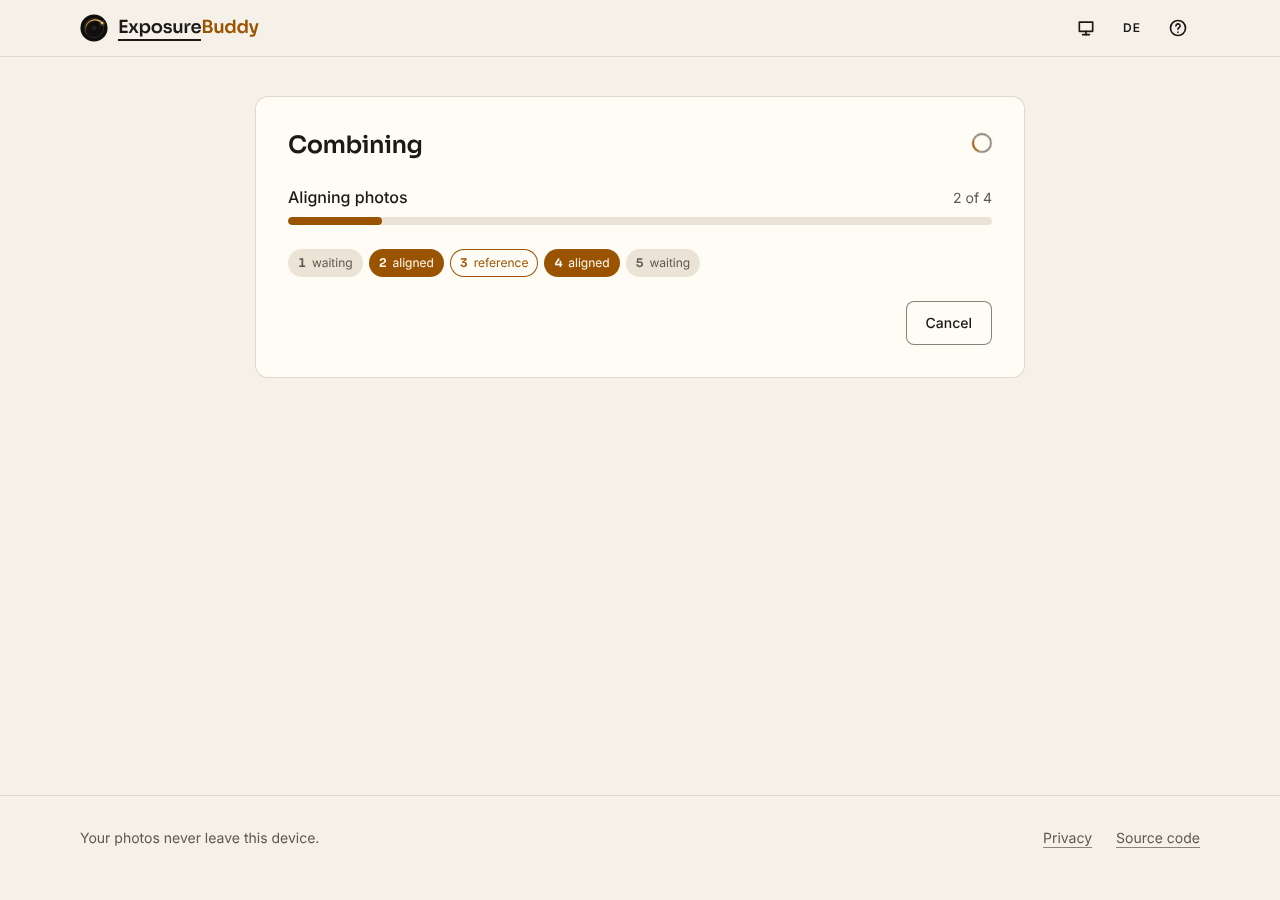
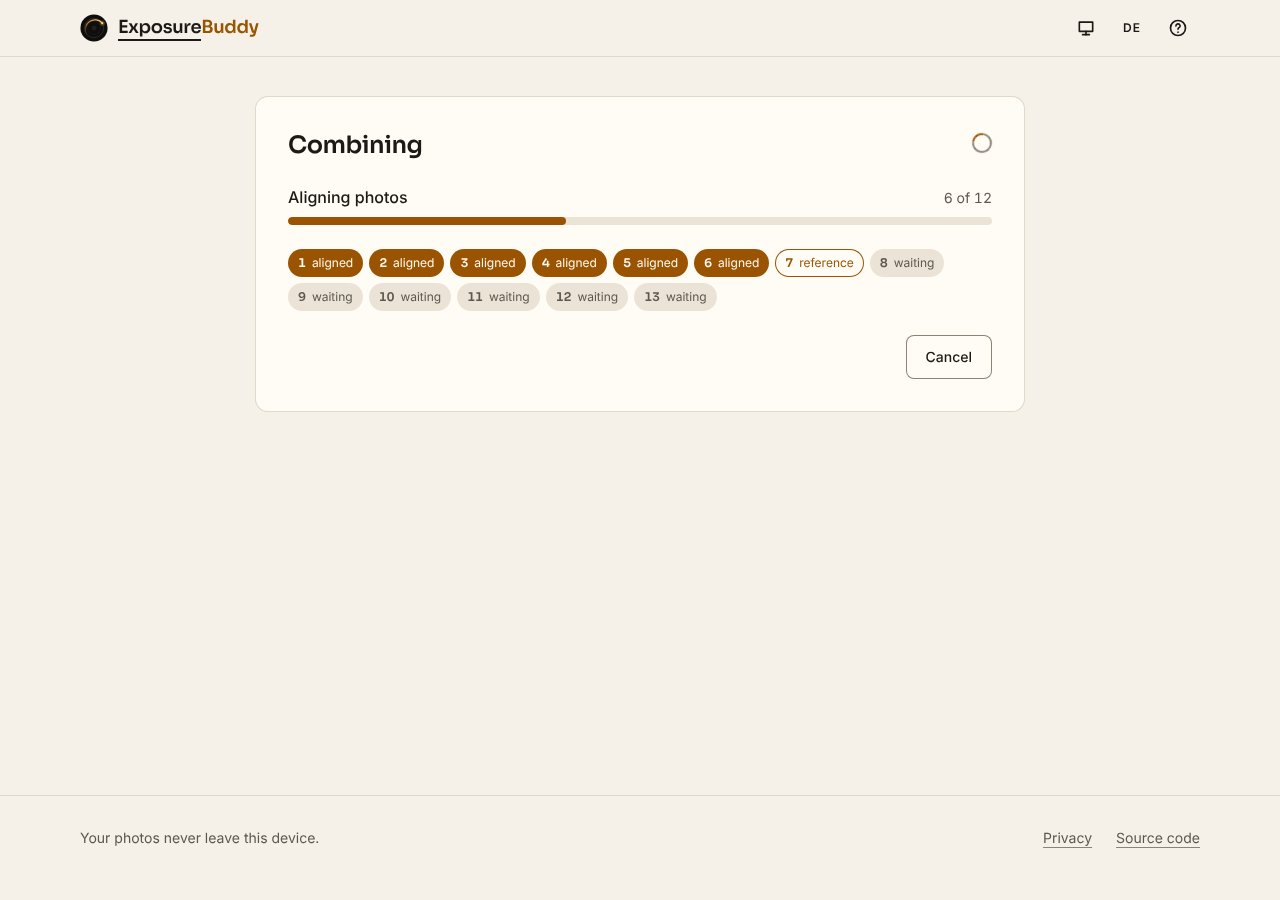
docs: redo README screenshots with the 13-photo burst
Claude-Session: https://claude.ai/code/session_01GGzo6ayEnXtXCSV7sUH3Lk

Changed region(s): [[0.2188, 0.2178, 0.75, 0.3733], [0.7188, 0.3422, 0.7812, 0.4044], [0.75, 0.2178, 0.7812, 0.2489]]

diff --git a/README.md b/README.md
@@ -36,11 +36,11 @@ A long exposure turns a busy street into an empty one with faint ghosts of the p
 
 It runs entirely in the browser. There is no account, no upload and no server: the photos never leave the phone.
 
-![Left: the reference photo of a five-photo burst with skaters in motion. Right: the long exposure, with the arena sharp and the skaters faded to faint ghosts.](docs/assets/before-after.jpg)
+![Left: the reference photo of a 13-photo burst of an ice hockey warm-up. Right: the long exposure, with the arena sharp and the skaters faded to faint ghosts.](docs/assets/before-after.jpg)
 
 | Add the burst                                                                               | Combining                                                                         | Result                                                                                       |
 | ------------------------------------------------------------------------------------------- | --------------------------------------------------------------------------------- | -------------------------------------------------------------------------------------------- |
-| ![The picker with five photo thumbnails and the Combine button.](docs/assets/ui-picker.png) | ![The progress screen while the photos are aligned.](docs/assets/ui-progress.png) | ![The result with its background, ghost, blur and glow controls.](docs/assets/ui-result.png) |
+| ![The picker with 13 photo thumbnails and the Combine button.](docs/assets/ui-picker.png) | ![The progress screen while the photos are aligned.](docs/assets/ui-progress.png) | ![The result with its background, ghost, blur and glow controls.](docs/assets/ui-result.png) |
 
 ## Features
 
